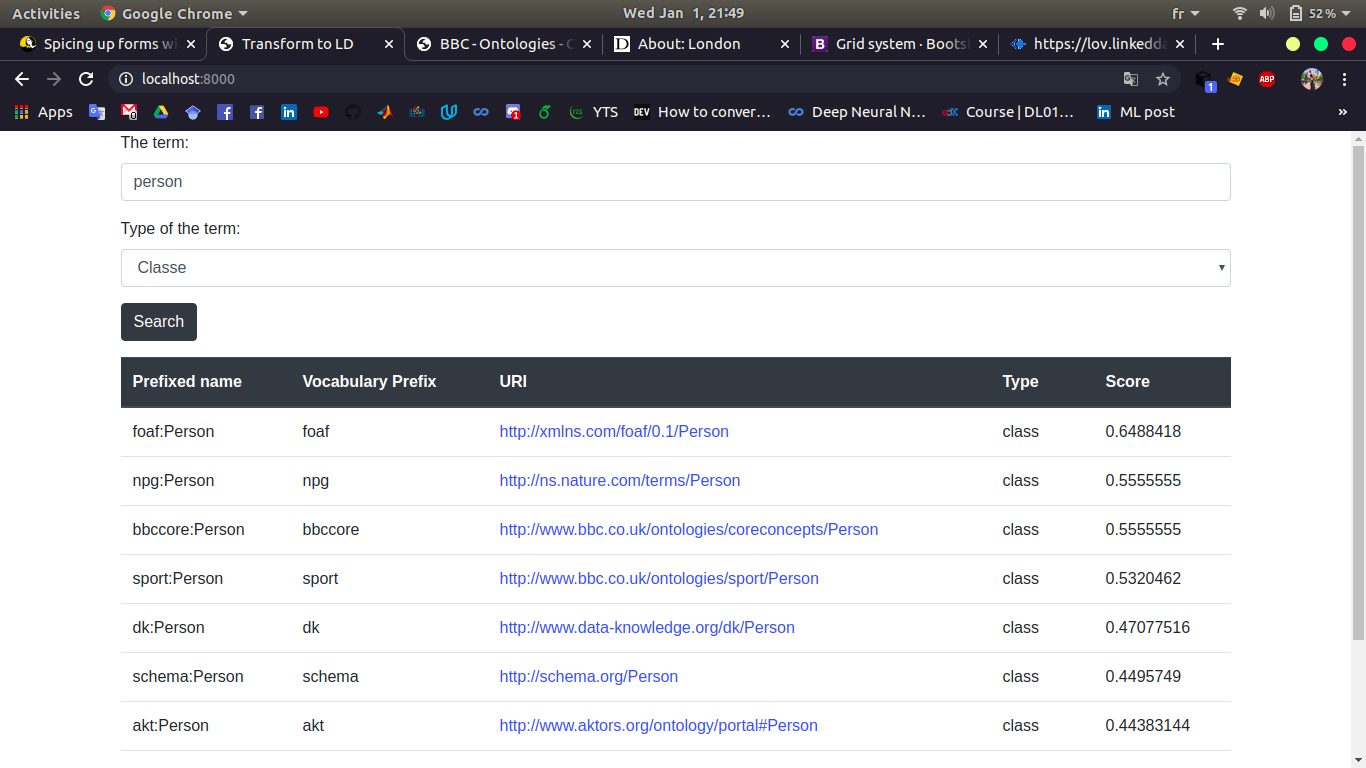
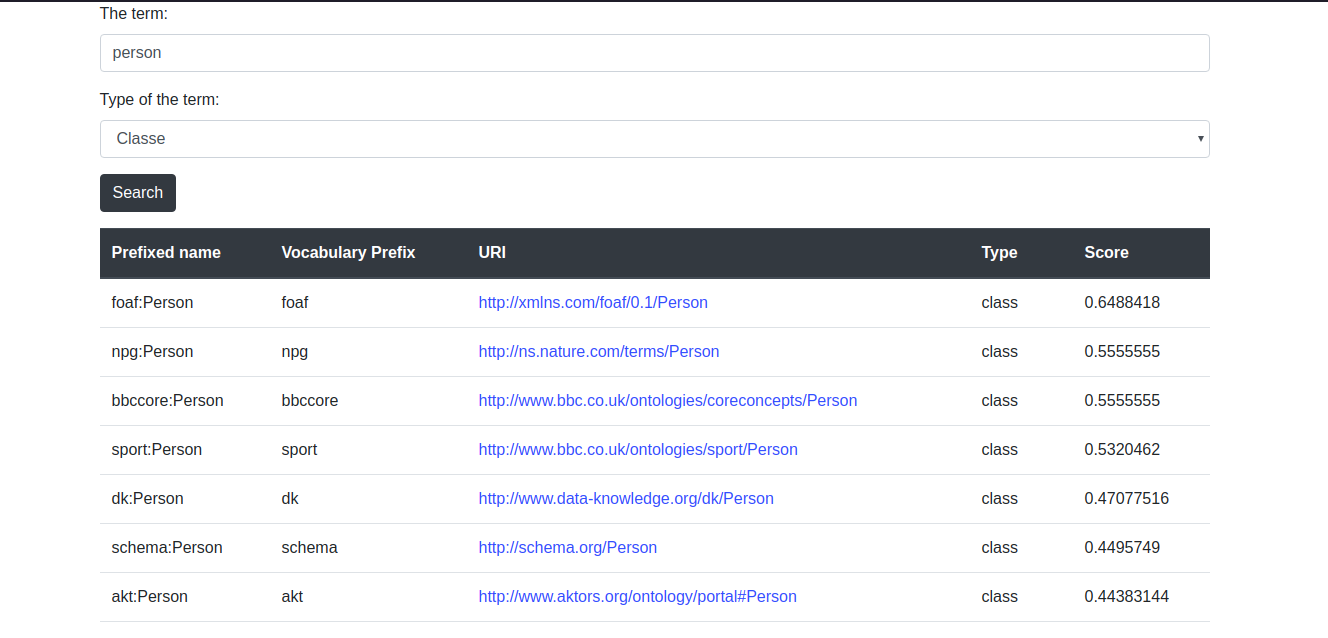
adding screenshots

diff --git a/README.md b/README.md
@@ -1,5 +1,8 @@
 # TransformToLD
 Transform datasets to linked data 
 ## Get a term's URI in the LOD Cloud or DBpedia
+### from LOD Cloud 
 ![Alt text](screenshots/1.png "get a term on LOD Cloud")
+### from DBpedia
 ![Alt text](screenshots/2.png "get a term on dbpedia")
+
